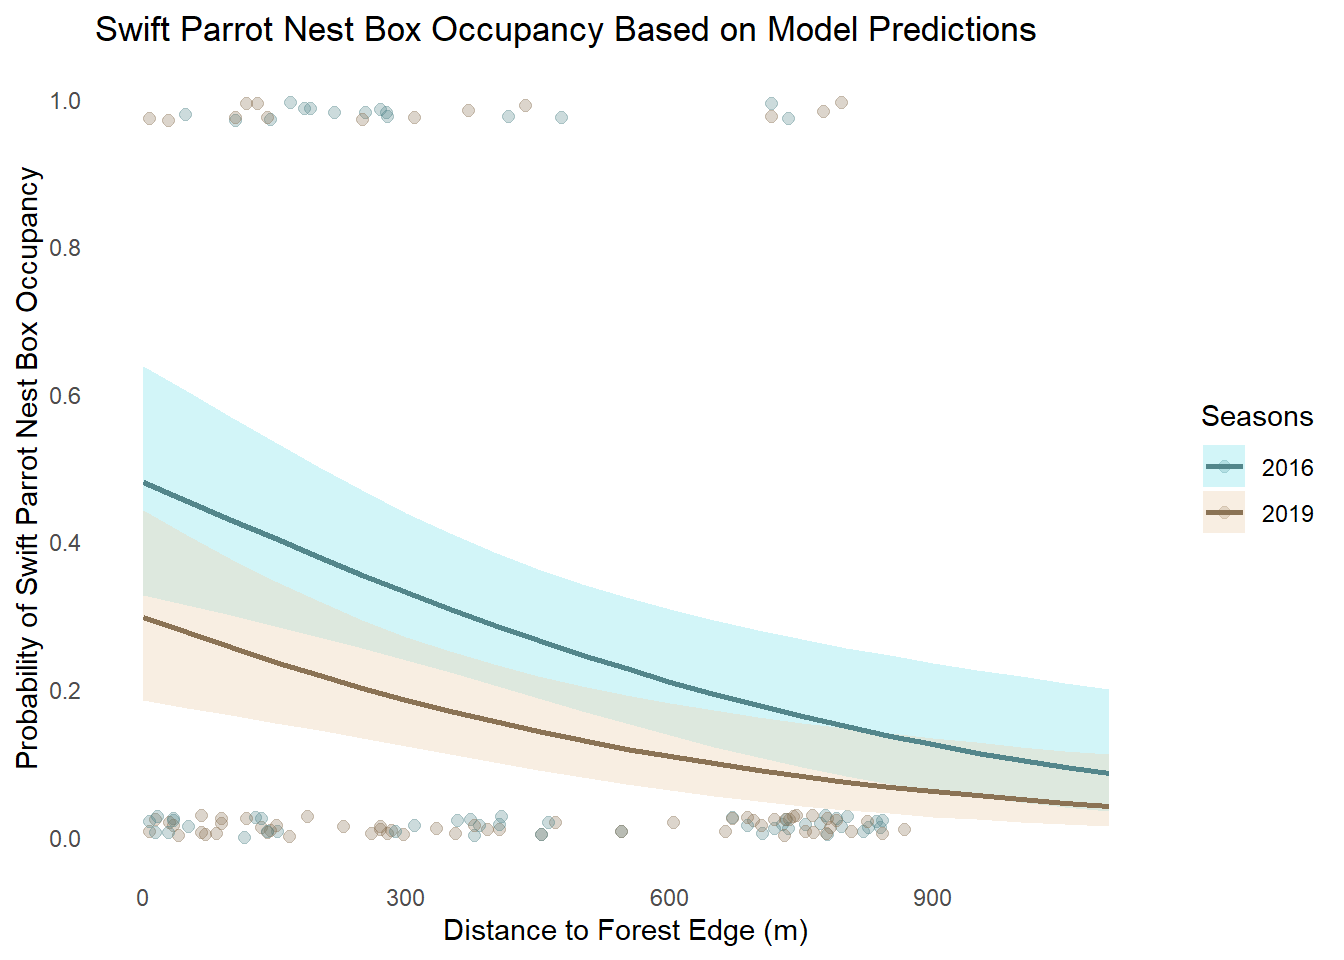
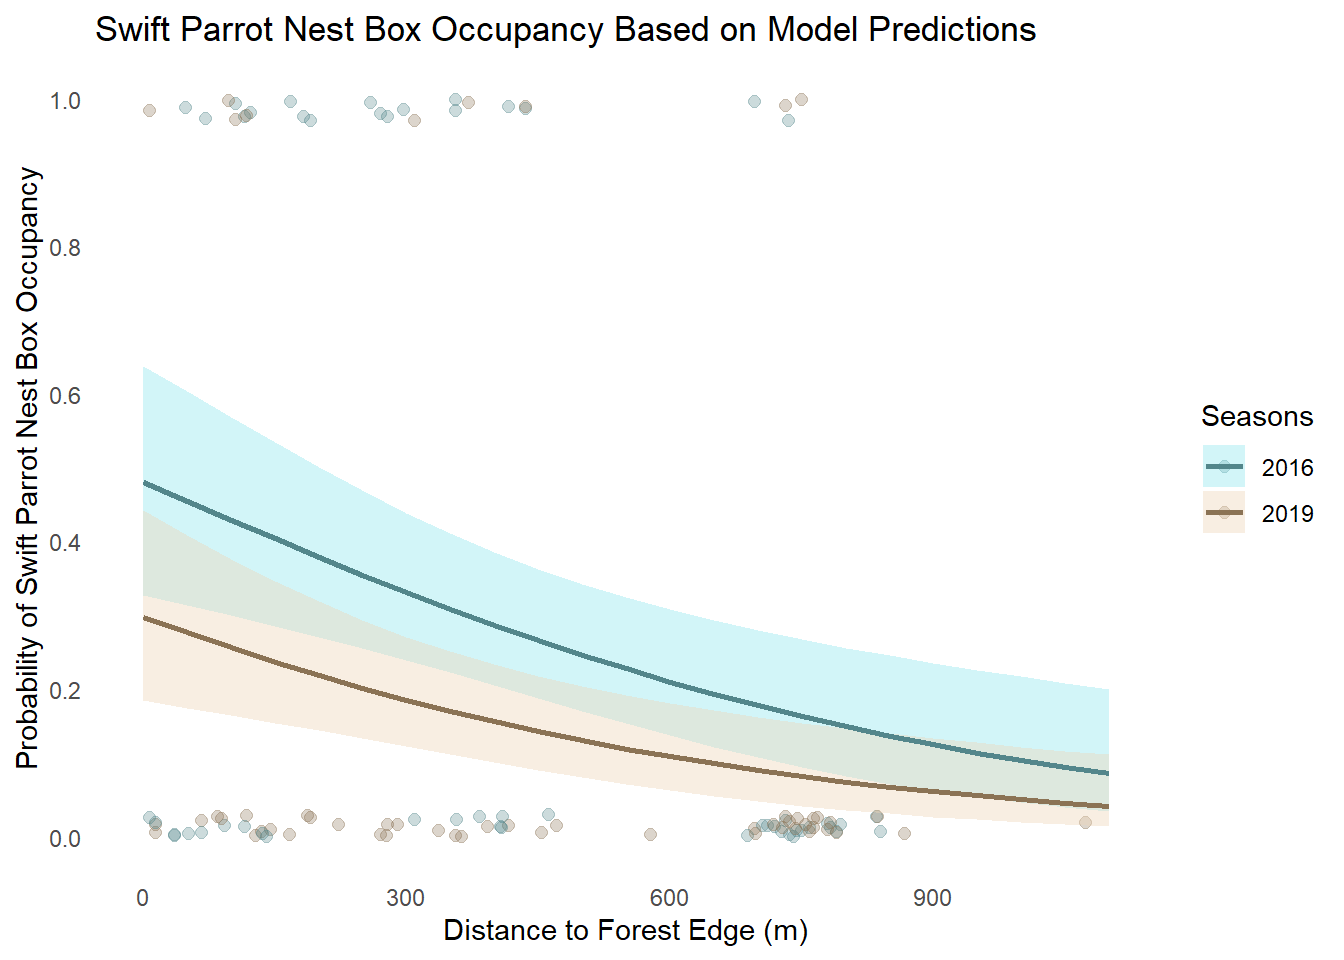
final product (i think)

diff --git a/envs193ds_spr25_final.html b/envs193ds_spr25_final.html
@@ -142,7 +142,7 @@ pre > code.sourceCode > span > a:first-child::before { text-decoration: underlin
     <div>
     <div class="quarto-title-meta-heading">Published</div>
     <div class="quarto-title-meta-contents">
-      <p class="date">June 10, 2025</p>
+      <p class="date">2025-06-10</p>
     </div>
   </div>
   
@@ -164,10 +164,11 @@ pre > code.sourceCode > span > a:first-child::before { text-decoration: underlin
 <span id="cb1-3"><a href="#cb1-3" aria-hidden="true" tabindex="-1"></a><span class="fu">library</span>(MuMIn) <span class="co"># load MuMIn</span></span>
 <span id="cb1-4"><a href="#cb1-4" aria-hidden="true" tabindex="-1"></a><span class="fu">library</span>(DHARMa) <span class="co"># load DHARMa</span></span>
 <span id="cb1-5"><a href="#cb1-5" aria-hidden="true" tabindex="-1"></a><span class="fu">library</span>(stats) <span class="co"># load stats</span></span>
-<span id="cb1-6"><a href="#cb1-6" aria-hidden="true" tabindex="-1"></a></span>
-<span id="cb1-7"><a href="#cb1-7" aria-hidden="true" tabindex="-1"></a><span class="co"># read in data</span></span>
-<span id="cb1-8"><a href="#cb1-8" aria-hidden="true" tabindex="-1"></a>sst <span class="ot">&lt;-</span> <span class="fu">read_csv</span>(<span class="st">"data/SST_update2023.csv"</span>) <span class="co"># create sst object from SST_update2023 </span></span>
-<span id="cb1-9"><a href="#cb1-9" aria-hidden="true" tabindex="-1"></a>nest_boxes <span class="ot">&lt;-</span> <span class="fu">read_csv</span>(<span class="st">"data/occdist.csv"</span>) <span class="co"># create nest_boxes object from occdist</span></span></code><button title="Copy to Clipboard" class="code-copy-button"><i class="bi"></i></button></pre></div>
+<span id="cb1-6"><a href="#cb1-6" aria-hidden="true" tabindex="-1"></a><span class="fu">library</span>(ggeffects) <span class="co"># load ggeffects</span></span>
+<span id="cb1-7"><a href="#cb1-7" aria-hidden="true" tabindex="-1"></a></span>
+<span id="cb1-8"><a href="#cb1-8" aria-hidden="true" tabindex="-1"></a><span class="co"># read in data</span></span>
+<span id="cb1-9"><a href="#cb1-9" aria-hidden="true" tabindex="-1"></a>sst <span class="ot">&lt;-</span> <span class="fu">read_csv</span>(<span class="st">"data/SST_update2023.csv"</span>) <span class="co"># create sst object from SST_update2023 </span></span>
+<span id="cb1-10"><a href="#cb1-10" aria-hidden="true" tabindex="-1"></a>nest_boxes <span class="ot">&lt;-</span> <span class="fu">read_csv</span>(<span class="st">"data/occdist.csv"</span>) <span class="co"># create nest_boxes object from occdist</span></span></code><button title="Copy to Clipboard" class="code-copy-button"><i class="bi"></i></button></pre></div>
 </div>
 </section>
 </section>
@@ -209,11 +210,11 @@ pre > code.sourceCode > span > a:first-child::before { text-decoration: underlin
 <pre><code># A tibble: 5 × 3
   year  month mean_monthly_sst
   &lt;fct&gt; &lt;ord&gt;            &lt;dbl&gt;
-1 2020  Jan               14.6
-2 2018  Aug               19.6
-3 2021  May               14.4
-4 2022  Dec               14.8
-5 2018  Jun               15.5</code></pre>
+1 2018  Jan               15.0
+2 2022  Jan               13.9
+3 2022  Nov               15.0
+4 2020  Nov               15.5
+5 2023  Nov               16.8</code></pre>
 </div>
 <div class="sourceCode cell-code" id="cb4"><pre class="sourceCode r code-with-copy"><code class="sourceCode r"><span id="cb4-1"><a href="#cb4-1" aria-hidden="true" tabindex="-1"></a><span class="fu">str</span>(sst_clean) <span class="co"># display structure of cleaned data </span></span></code><button title="Copy to Clipboard" class="code-copy-button"><i class="bi"></i></button></pre></div>
 <div class="cell-output cell-output-stdout">
@@ -245,7 +246,7 @@ pre > code.sourceCode > span > a:first-child::before { text-decoration: underlin
 <div class="cell-output-display">
 <div>
 <figure class="figure">
-<p><img src="envs193ds_spr25_final_files/figure-html/unnamed-chunk-3-1.png" class="img-fluid figure-img" width="672"></p>
+<p><img src="envs193ds_spr25_final_files/figure-html/unnamed-chunk-4-1.png" class="img-fluid figure-img" width="672"></p>
 </figure>
 </div>
 </div>
@@ -323,7 +324,7 @@ pre > code.sourceCode > span > a:first-child::before { text-decoration: underlin
 <div class="cell-output-display">
 <div>
 <figure class="figure">
-<p><img src="envs193ds_spr25_final_files/figure-html/unnamed-chunk-7-1.png" class="img-fluid figure-img" width="672"></p>
+<p><img src="envs193ds_spr25_final_files/figure-html/unnamed-chunk-8-1.png" class="img-fluid figure-img" width="672"></p>
 </figure>
 </div>
 </div>
@@ -333,7 +334,7 @@ pre > code.sourceCode > span > a:first-child::before { text-decoration: underlin
 <div class="cell-output-display">
 <div>
 <figure class="figure">
-<p><img src="envs193ds_spr25_final_files/figure-html/unnamed-chunk-7-2.png" class="img-fluid figure-img" width="672"></p>
+<p><img src="envs193ds_spr25_final_files/figure-html/unnamed-chunk-8-2.png" class="img-fluid figure-img" width="672"></p>
 </figure>
 </div>
 </div>
@@ -343,7 +344,7 @@ pre > code.sourceCode > span > a:first-child::before { text-decoration: underlin
 <div class="cell-output-display">
 <div>
 <figure class="figure">
-<p><img src="envs193ds_spr25_final_files/figure-html/unnamed-chunk-7-3.png" class="img-fluid figure-img" width="672"></p>
+<p><img src="envs193ds_spr25_final_files/figure-html/unnamed-chunk-8-3.png" class="img-fluid figure-img" width="672"></p>
 </figure>
 </div>
 </div>
@@ -353,7 +354,7 @@ pre > code.sourceCode > span > a:first-child::before { text-decoration: underlin
 <div class="cell-output-display">
 <div>
 <figure class="figure">
-<p><img src="envs193ds_spr25_final_files/figure-html/unnamed-chunk-7-4.png" class="img-fluid figure-img" width="672"></p>
+<p><img src="envs193ds_spr25_final_files/figure-html/unnamed-chunk-8-4.png" class="img-fluid figure-img" width="672"></p>
 </figure>
 </div>
 </div>
@@ -380,27 +381,43 @@ Model_1  1 238.8318          Null Model</code></pre>
 <section id="h.-visualize-the-model-predictions" class="level3">
 <h3 class="anchored" data-anchor-id="h.-visualize-the-model-predictions">h. Visualize the model predictions</h3>
 <div class="cell">
-<div class="sourceCode cell-code" id="cb16"><pre class="sourceCode r code-with-copy"><code class="sourceCode r"><span id="cb16-1"><a href="#cb16-1" aria-hidden="true" tabindex="-1"></a><span class="fu">ggplot</span>(nest_boxes_clean, <span class="fu">aes</span>(<span class="at">x =</span> edge_distance, <span class="at">y =</span> sp, <span class="at">color =</span> season)) <span class="sc">+</span> <span class="co"># create plot</span></span>
-<span id="cb16-2"><a href="#cb16-2" aria-hidden="true" tabindex="-1"></a>  <span class="fu">geom_jitter</span>(<span class="at">width =</span> <span class="dv">8</span>, <span class="at">height =</span> <span class="fl">0.05</span>, <span class="at">alpha =</span> <span class="fl">0.5</span>) <span class="sc">+</span> <span class="co"># add jittered data points</span></span>
-<span id="cb16-3"><a href="#cb16-3" aria-hidden="true" tabindex="-1"></a>  <span class="fu">stat_smooth</span>(<span class="at">method =</span> <span class="st">"glm"</span>, <span class="co"># use generalized linear model </span></span>
-<span id="cb16-4"><a href="#cb16-4" aria-hidden="true" tabindex="-1"></a>              <span class="at">methods.args =</span> <span class="fu">list</span>(<span class="at">family =</span> <span class="st">"binomial"</span>), <span class="co"># data is binomial in logistic regression</span></span>
-<span id="cb16-5"><a href="#cb16-5" aria-hidden="true" tabindex="-1"></a>              <span class="at">se =</span> <span class="cn">TRUE</span>, <span class="co"># display 95% confidence intervals </span></span>
-<span id="cb16-6"><a href="#cb16-6" aria-hidden="true" tabindex="-1"></a>              <span class="at">fullrange =</span> <span class="cn">TRUE</span>, <span class="co"># line spans whole x-axis range</span></span>
-<span id="cb16-7"><a href="#cb16-7" aria-hidden="true" tabindex="-1"></a>              <span class="fu">aes</span>(<span class="at">fill =</span> season)) <span class="sc">+</span> <span class="co"># fill confidence interval ribbon with same color as season</span></span>
-<span id="cb16-8"><a href="#cb16-8" aria-hidden="true" tabindex="-1"></a>  <span class="fu">scale_y_continuous</span>(<span class="at">name =</span> <span class="st">"Probability of Swift Parrot Nest Box Occupancy"</span>, <span class="co"># label y-axis</span></span>
-<span id="cb16-9"><a href="#cb16-9" aria-hidden="true" tabindex="-1"></a>                     <span class="at">limits =</span> <span class="fu">c</span>(<span class="dv">0</span>, <span class="dv">1</span>)) <span class="sc">+</span> <span class="co"># y-axis probability range</span></span>
-<span id="cb16-10"><a href="#cb16-10" aria-hidden="true" tabindex="-1"></a>  <span class="fu">scale_x_continuous</span>(<span class="at">name =</span> <span class="st">"Distance to the Forest Edge (m)"</span>) <span class="sc">+</span> <span class="co"># label x-axis</span></span>
-<span id="cb16-11"><a href="#cb16-11" aria-hidden="true" tabindex="-1"></a>  <span class="fu">theme_minimal</span>() <span class="sc">+</span> <span class="co"># use minimal theme</span></span>
-<span id="cb16-12"><a href="#cb16-12" aria-hidden="true" tabindex="-1"></a>  <span class="fu">theme</span>(<span class="at">panel.grid =</span> <span class="fu">element_blank</span>()) <span class="sc">+</span> <span class="co"># remove gridlines </span></span>
-<span id="cb16-13"><a href="#cb16-13" aria-hidden="true" tabindex="-1"></a>  <span class="fu">scale_color_manual</span>(<span class="at">values =</span> <span class="fu">c</span>(<span class="st">"cadetblue4"</span>, <span class="st">"burlywood4"</span>)) <span class="sc">+</span> <span class="co"># manually set season colors</span></span>
-<span id="cb16-14"><a href="#cb16-14" aria-hidden="true" tabindex="-1"></a>  <span class="fu">scale_fill_manual</span>(<span class="at">values =</span> <span class="fu">c</span>(<span class="st">"cadetblue2"</span>, <span class="st">"bisque2"</span>)) <span class="sc">+</span> <span class="co"># manually set confidence interval colors</span></span>
-<span id="cb16-15"><a href="#cb16-15" aria-hidden="true" tabindex="-1"></a>  <span class="fu">labs</span>(<span class="at">title =</span> <span class="st">"Swift Parrot Nest Box Occupancy Based on Model Predictions"</span>, <span class="co"># add plot title</span></span>
-<span id="cb16-16"><a href="#cb16-16" aria-hidden="true" tabindex="-1"></a>       <span class="at">color =</span> <span class="st">"Season"</span>, <span class="co"># add legend label for line color</span></span>
-<span id="cb16-17"><a href="#cb16-17" aria-hidden="true" tabindex="-1"></a>       <span class="at">fill =</span> <span class="st">"Season"</span>) <span class="co"># add legend label for confidence interval color</span></span></code><button title="Copy to Clipboard" class="code-copy-button"><i class="bi"></i></button></pre></div>
+<div class="sourceCode cell-code" id="cb16"><pre class="sourceCode r code-with-copy"><code class="sourceCode r"><span id="cb16-1"><a href="#cb16-1" aria-hidden="true" tabindex="-1"></a>nest_boxes_clean<span class="sc">$</span>season <span class="ot">&lt;-</span> <span class="fu">as.factor</span>(nest_boxes_clean<span class="sc">$</span>season) <span class="co"># convert season to a factor</span></span>
+<span id="cb16-2"><a href="#cb16-2" aria-hidden="true" tabindex="-1"></a>mod_predictions <span class="ot">&lt;-</span> <span class="fu">ggpredict</span>(Model_2, <span class="at">terms =</span> <span class="fu">c</span>(<span class="st">"edge_distance"</span>, <span class="st">"season"</span>)) <span class="co"># create mod_predictions object  from predicted falues form Model_2</span></span>
+<span id="cb16-3"><a href="#cb16-3" aria-hidden="true" tabindex="-1"></a></span>
+<span id="cb16-4"><a href="#cb16-4" aria-hidden="true" tabindex="-1"></a><span class="fu">ggplot</span>() <span class="sc">+</span> <span class="co"># create plot</span></span>
+<span id="cb16-5"><a href="#cb16-5" aria-hidden="true" tabindex="-1"></a>  <span class="fu">geom_point</span>(<span class="at">data =</span> nest_boxes_clean, <span class="co"># use nest_boxes_clean for data points</span></span>
+<span id="cb16-6"><a href="#cb16-6" aria-hidden="true" tabindex="-1"></a>             <span class="fu">aes</span>( <span class="at">x =</span> edge_distance, <span class="co">#x-axis is distance to forest edge</span></span>
+<span id="cb16-7"><a href="#cb16-7" aria-hidden="true" tabindex="-1"></a>                  <span class="at">y =</span> <span class="fu">as.numeric</span>(sp), <span class="co"># y-axis is Swift Parrot nest box occupancy, binary outcome is numeric</span></span>
+<span id="cb16-8"><a href="#cb16-8" aria-hidden="true" tabindex="-1"></a>                  <span class="at">color =</span> season), <span class="co"># color points by season</span></span>
+<span id="cb16-9"><a href="#cb16-9" aria-hidden="true" tabindex="-1"></a>             <span class="at">size =</span> <span class="dv">2</span>, <span class="co"># point size</span></span>
+<span id="cb16-10"><a href="#cb16-10" aria-hidden="true" tabindex="-1"></a>             <span class="at">alpha =</span> <span class="fl">0.3</span>, <span class="co"># make semi-transparent to increase readability</span></span>
+<span id="cb16-11"><a href="#cb16-11" aria-hidden="true" tabindex="-1"></a>             <span class="at">position =</span> <span class="fu">position_jitter</span>(<span class="at">height =</span> <span class="fl">0.03</span>)) <span class="sc">+</span> <span class="co"># add horizontal jitter</span></span>
+<span id="cb16-12"><a href="#cb16-12" aria-hidden="true" tabindex="-1"></a>  <span class="fu">geom_ribbon</span>(<span class="at">data =</span> mod_predictions, <span class="co"># overlay probability curves based on predictions and models</span></span>
+<span id="cb16-13"><a href="#cb16-13" aria-hidden="true" tabindex="-1"></a>              <span class="fu">aes</span>(<span class="at">x =</span>x,<span class="co"># x-axis is x</span></span>
+<span id="cb16-14"><a href="#cb16-14" aria-hidden="true" tabindex="-1"></a>                  <span class="at">ymin =</span> conf.low, <span class="co"># y- axis minimum is lower bound of confidence interval</span></span>
+<span id="cb16-15"><a href="#cb16-15" aria-hidden="true" tabindex="-1"></a>                  <span class="at">ymax =</span> conf.high, <span class="co"># y-axis maximum is upper bound of confidence interval</span></span>
+<span id="cb16-16"><a href="#cb16-16" aria-hidden="true" tabindex="-1"></a>                  <span class="at">fill =</span> group), <span class="co"># fill confidence interval ribbons</span></span>
+<span id="cb16-17"><a href="#cb16-17" aria-hidden="true" tabindex="-1"></a>              <span class="at">alpha =</span> <span class="fl">0.4</span>) <span class="sc">+</span> <span class="co"># make transparent</span></span>
+<span id="cb16-18"><a href="#cb16-18" aria-hidden="true" tabindex="-1"></a>  <span class="fu">geom_line</span>(<span class="at">data =</span> mod_predictions, <span class="co"># create line in plot</span></span>
+<span id="cb16-19"><a href="#cb16-19" aria-hidden="true" tabindex="-1"></a>            <span class="fu">aes</span>(<span class="at">x =</span>x, <span class="co"># x-axis is x</span></span>
+<span id="cb16-20"><a href="#cb16-20" aria-hidden="true" tabindex="-1"></a>                <span class="at">y =</span> predicted, <span class="co"># y-axis is predicted values</span></span>
+<span id="cb16-21"><a href="#cb16-21" aria-hidden="true" tabindex="-1"></a>                <span class="at">color =</span> group), <span class="co"># groups get a color</span></span>
+<span id="cb16-22"><a href="#cb16-22" aria-hidden="true" tabindex="-1"></a>            <span class="at">size =</span> <span class="dv">1</span>) <span class="sc">+</span> <span class="co"># line size is 1 for readability</span></span>
+<span id="cb16-23"><a href="#cb16-23" aria-hidden="true" tabindex="-1"></a>  <span class="fu">scale_y_continuous</span>(<span class="st">"Probability of Swift Parrot Nest Box Occupancy"</span>, <span class="co"># x-axis to reflect probability of nest box occupancy by swift parrots</span></span>
+<span id="cb16-24"><a href="#cb16-24" aria-hidden="true" tabindex="-1"></a>                     <span class="at">limits =</span> <span class="fu">c</span>(<span class="dv">0</span>, <span class="dv">1</span>), <span class="co"># # create y-axis range</span></span>
+<span id="cb16-25"><a href="#cb16-25" aria-hidden="true" tabindex="-1"></a>                     <span class="at">breaks =</span> <span class="fu">seq</span>(<span class="dv">0</span>, <span class="dv">1</span>, <span class="fl">0.2</span>)) <span class="sc">+</span> <span class="co"># create ticks every 0.2 units</span></span>
+<span id="cb16-26"><a href="#cb16-26" aria-hidden="true" tabindex="-1"></a>  <span class="fu">theme_minimal</span>() <span class="sc">+</span> <span class="co"># use minimal theme</span></span>
+<span id="cb16-27"><a href="#cb16-27" aria-hidden="true" tabindex="-1"></a>  <span class="fu">theme</span>(<span class="at">panel.grid =</span> <span class="fu">element_blank</span>()) <span class="sc">+</span> <span class="co">#remove gridline and background</span></span>
+<span id="cb16-28"><a href="#cb16-28" aria-hidden="true" tabindex="-1"></a>  <span class="fu">scale_color_manual</span>(<span class="at">values =</span> <span class="fu">c</span>(<span class="st">"cadetblue4"</span>, <span class="st">"burlywood4"</span>)) <span class="sc">+</span> <span class="co"># manually set colors for data points</span></span>
+<span id="cb16-29"><a href="#cb16-29" aria-hidden="true" tabindex="-1"></a>  <span class="fu">scale_fill_manual</span>(<span class="at">values =</span> <span class="fu">c</span>(<span class="st">"cadetblue2"</span>, <span class="st">"bisque2"</span>)) <span class="sc">+</span> <span class="co"># manually set fill colors for confidence ribbons</span></span>
+<span id="cb16-30"><a href="#cb16-30" aria-hidden="true" tabindex="-1"></a>  <span class="fu">labs</span>(<span class="at">title =</span> <span class="st">"Swift Parrot Nest Box Occupancy Based on Model Predictions"</span>, <span class="co"># create plot title</span></span>
+<span id="cb16-31"><a href="#cb16-31" aria-hidden="true" tabindex="-1"></a>       <span class="at">x =</span> <span class="st">"Distance to Forest Edge (m)"</span>, <span class="co"># create x-axis label</span></span>
+<span id="cb16-32"><a href="#cb16-32" aria-hidden="true" tabindex="-1"></a>       <span class="at">color =</span> <span class="st">"Seasons"</span>, <span class="co"># create legend for points and lines</span></span>
+<span id="cb16-33"><a href="#cb16-33" aria-hidden="true" tabindex="-1"></a>       <span class="at">fill =</span> <span class="st">"Seasons"</span>) <span class="co"># create legend for confidence interval ribbons</span></span></code><button title="Copy to Clipboard" class="code-copy-button"><i class="bi"></i></button></pre></div>
 <div class="cell-output-display">
 <div>
 <figure class="figure">
-<p><img src="envs193ds_spr25_final_files/figure-html/unnamed-chunk-9-1.png" class="img-fluid figure-img" width="672"></p>
+<p><img src="envs193ds_spr25_final_files/figure-html/unnamed-chunk-10-1.png" class="img-fluid figure-img" width="672"></p>
 </figure>
 </div>
 </div>
